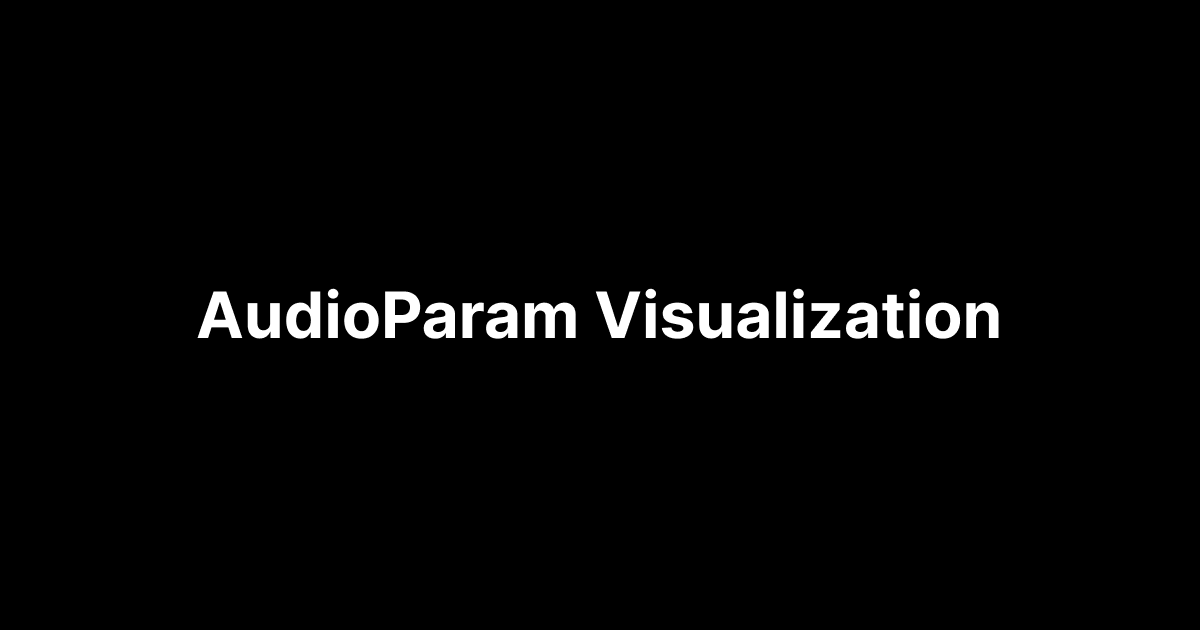
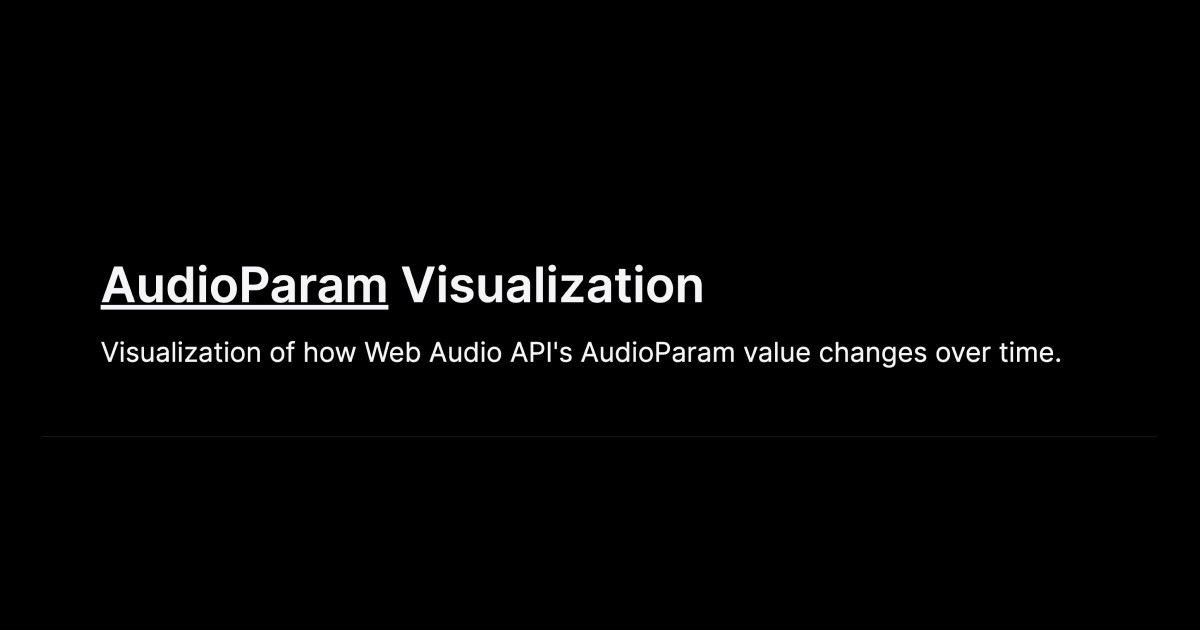
UI improvements (#11)

Changed region(s): [[0.0617, 0.4222, 0.8942, 0.573]]

diff --git a/src/pages/index.tsx b/src/pages/index.tsx
@@ -1,3 +1,5 @@
+import Link from 'next/link'
+import { IconGitHub } from '@/components/icons/IconGitHub'
 import {
   VisualizationSetValueAtTime,
   VisualizationLinearRampToValueAtTime,
@@ -11,23 +13,42 @@ import {
 const HomePage = () => {
   return (
     <>
-      <div className='px-4'>
-        <header className='py-12 md:py-20 flex flex-col max-w-3xl mx-auto gap-4'>
-          <h1 className='font-bold text-3xl md:text-4xl'>AudioParam Visualization</h1>
-          <h2 className='flex text-xl'>
+      <header className='py-12 border-b-2 border-b-borders'>
+        <div className='px-4 flex flex-col gap-4 max-w-3xl mx-auto'>
+          <h1 className='font-semibold text-3xl md:text-4xl'><span className='underline'>AudioParam</span> Visualization</h1>
+          <h2 className='flex text-lg md:text-xl'>
             {'Visualization of how Web Audio API\'s AudioParam value changes over time.'}
           </h2>
-        </header>
-        <main className='max-w-3xl mx-auto flex flex-col gap-8'>
-          <VisualizationSetValueAtTime/>
-          <VisualizationLinearRampToValueAtTime/>
-          <VisualizationExponentialRampToValueAtTime/>
-          <VisualizationSetTargetAtTime/>
-          <VisualizationSetValueCurveAtTime/>
-          <VisualizationCancelAndHoldAtTime/>
-          <VisualizationCancelScheduledValues/>
-        </main>
-      </div>
+        </div>
+      </header>
+      <main className='px-4 py-8 max-w-3xl mx-auto flex flex-col gap-12'>
+        <VisualizationSetValueAtTime/>
+        <VisualizationLinearRampToValueAtTime/>
+        <VisualizationExponentialRampToValueAtTime/>
+        <VisualizationSetTargetAtTime/>
+        <VisualizationSetValueCurveAtTime/>
+        <VisualizationCancelAndHoldAtTime/>
+        <VisualizationCancelScheduledValues/>
+      </main>
+      <footer className='mt-2 py-8 text-sm text-white-dim'>
+        <div className='px-4 max-w-3xl mx-auto'>
+          <div className='before:content-["-"] before:pr-1'>
+            {'Made by: '}<Link
+              href='https://github.com/satelllte'
+              target='_blank'
+              className='font-semibold border-b border-b-transparent hover:text-white hover:border-b-white motion-safe:transition-colors'
+            >@satelllte</Link>
+          </div>
+          <div className='before:content-["-"] before:pr-1'>
+            {'Source code: '}<Link
+              href='https://github.com/satelllte/audioparam-visualization'
+              target='_blank'
+              className='font-semibold inline-flex gap-1 items-center border-b border-b-transparent hover:text-white hover:border-b-white motion-safe:transition-colors'
+            >GitHub <IconGitHub/>
+            </Link>
+          </div>
+        </div>
+      </footer>
     </>
   )
 }

diff --git a/src/components/icons/IconGitHub.tsx b/src/components/icons/IconGitHub.tsx
@@ -1,0 +1,19 @@
+import { SVG } from './internal/SVG'
+
+export const IconGitHub = () => {
+  return (
+    <SVG
+      width={15}
+      height={15}
+      viewBox="0 0 15 15"
+      fill="none"
+    >
+      <path
+        d="M7.49933 0.25C3.49635 0.25 0.25 3.49593 0.25 7.50024C0.25 10.703 2.32715 13.4206 5.2081 14.3797C5.57084 14.446 5.70302 14.2222 5.70302 14.0299C5.70302 13.8576 5.69679 13.4019 5.69323 12.797C3.67661 13.235 3.25112 11.825 3.25112 11.825C2.92132 10.9874 2.44599 10.7644 2.44599 10.7644C1.78773 10.3149 2.49584 10.3238 2.49584 10.3238C3.22353 10.375 3.60629 11.0711 3.60629 11.0711C4.25298 12.1788 5.30335 11.8588 5.71638 11.6732C5.78225 11.205 5.96962 10.8854 6.17658 10.7043C4.56675 10.5209 2.87415 9.89918 2.87415 7.12104C2.87415 6.32925 3.15677 5.68257 3.62053 5.17563C3.54576 4.99226 3.29697 4.25521 3.69174 3.25691C3.69174 3.25691 4.30015 3.06196 5.68522 3.99973C6.26337 3.83906 6.8838 3.75895 7.50022 3.75583C8.1162 3.75895 8.73619 3.83906 9.31523 3.99973C10.6994 3.06196 11.3069 3.25691 11.3069 3.25691C11.7026 4.25521 11.4538 4.99226 11.3795 5.17563C11.8441 5.68257 12.1245 6.32925 12.1245 7.12104C12.1245 9.9063 10.4292 10.5192 8.81452 10.6985C9.07444 10.9224 9.30633 11.3648 9.30633 12.0413C9.30633 13.0102 9.29742 13.7922 9.29742 14.0299C9.29742 14.2239 9.42828 14.4496 9.79591 14.3788C12.6746 13.4179 14.75 10.7025 14.75 7.50024C14.75 3.49593 11.5036 0.25 7.49933 0.25Z"
+        fill="currentColor"
+        fillRule="evenodd"
+        clipRule="evenodd"
+      />
+    </SVG>
+  )
+}

diff --git a/src/components/visualizations/Visualization.tsx b/src/components/visualizations/Visualization.tsx
@@ -91,8 +91,8 @@ export const Visualization = ({
   const mdnUrl = `https://developer.mozilla.org/en-US/docs/Web/API/AudioParam/${title}`
 
   return (
-    <section className="py-8">
-      <h2 className="py-2 text-xl md:text-2xl font-bold">{`${title}()`}</h2>
+    <section>
+      <h2 className="py-2 text-xl md:text-2xl font-semibold">{`${title}()`}</h2>
       <Link
         className="mb-4 text-accent inline-flex gap-1 items-center border-b border-b-transparent hover:border-b-accent motion-safe:transition-colors"
         href={mdnUrl}
@@ -101,14 +101,12 @@ export const Visualization = ({
         MDN Docs <IconExternalLink/>
       </Link>
       <div>{description}</div>
-      <div className="py-2">
-        <pre className="bg-borders my-2 px-2 py-4 rounded-md text-xs sm:text-sm overflow-x-auto">
-          {code}
-        </pre>
-      </div>
+      <pre className="bg-borders my-4 px-2 py-4 rounded-md text-xs sm:text-sm overflow-x-auto">
+        {code}
+      </pre>
       <div className='mb-4 relative h-[250px] max-w-full'>
         <canvas
-          className="absolute inset-0 p-1 w-full h-full rounded-md border border-borders"
+          className="absolute inset-0 p-1 w-full h-full rounded-md border-2 border-borders"
           ref={canvasRef}
           width={768}
           height={250}

diff --git a/src/components/visualizations/Paragraph.tsx b/src/components/visualizations/Paragraph.tsx
@@ -4,7 +4,7 @@ interface HighlightProps {
 
 export const Highlight = ({ children }: HighlightProps) => {
   return (
-    <span className="font-bold text-accent">{children}</span>
+    <span className="font-semibold text-accent">{children}</span>
   )
 }
 

diff --git a/tailwind.config.js b/tailwind.config.js
@@ -8,6 +8,7 @@ module.exports = {
       'transparent': 'transparent',
       'black': '#000000',
       'white': '#F5F5F7',
+      'white-dim': '#a1a1a6',
       'borders': '#1C1C1E',
       'accent': '#0A84FF',
     },

diff --git a/README.md b/README.md
@@ -5,6 +5,20 @@ Visualization of how Web Audio API's `AudioParam` value changes over time
 ## See LIVE
 ### ➡ https://audioparam-visualization.vercel.app
 
+<img src="./public/waveform-1.png" width="400"/>
+
+<img src="./public/waveform-2.png" width="400"/>
+
+<img src="./public/waveform-3.png" width="400"/>
+
+<img src="./public/waveform-4.png" width="400"/>
+
+<img src="./public/waveform-5.png" width="400"/>
+
+<img src="./public/waveform-6.png" width="400"/>
+
+<img src="./public/waveform-7.png" width="400"/>
+
 ## Development
 
 (1) Install Node.js dependencies
